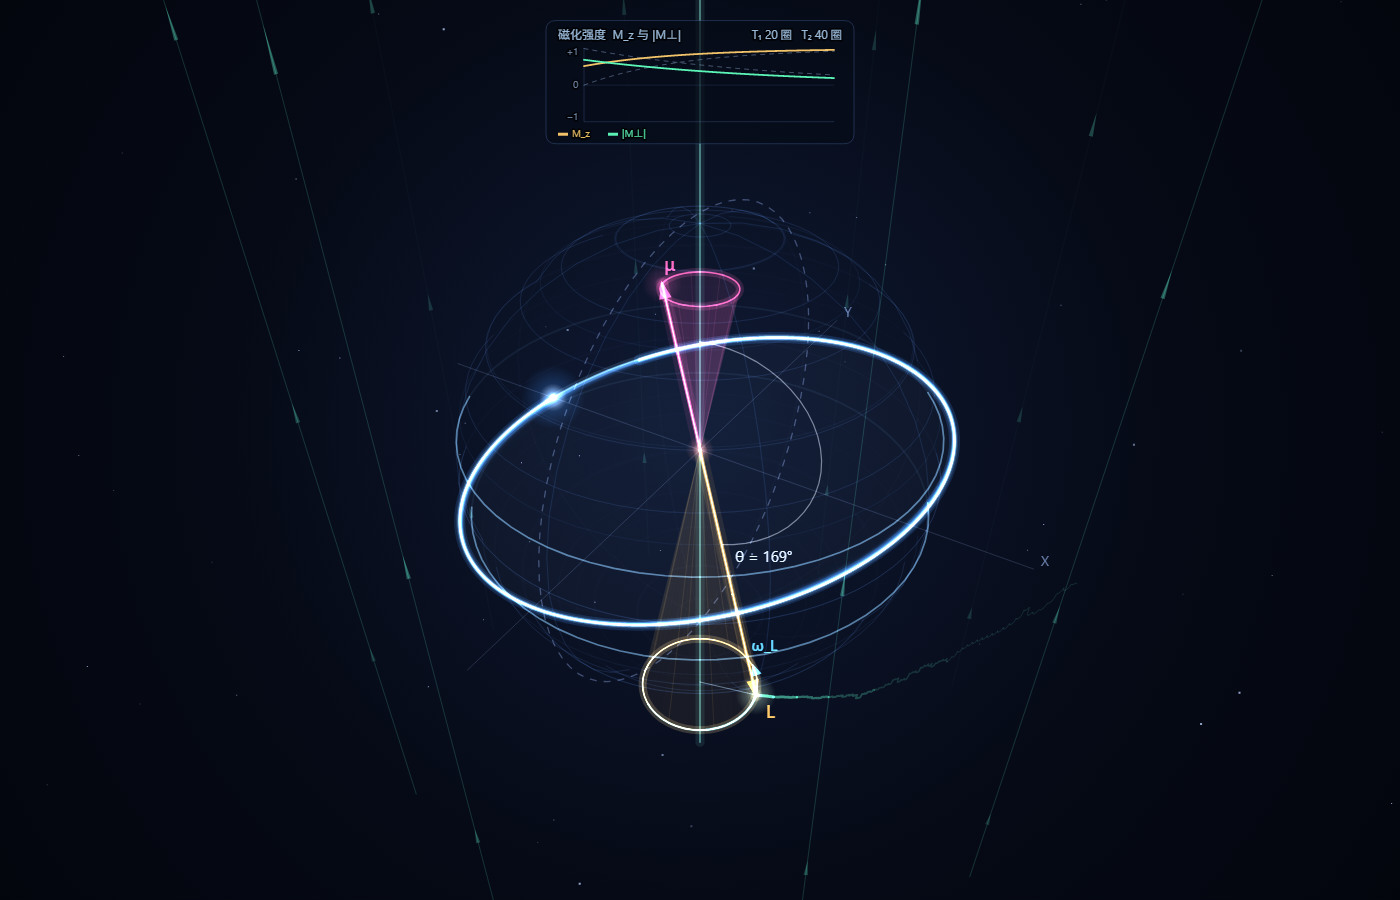
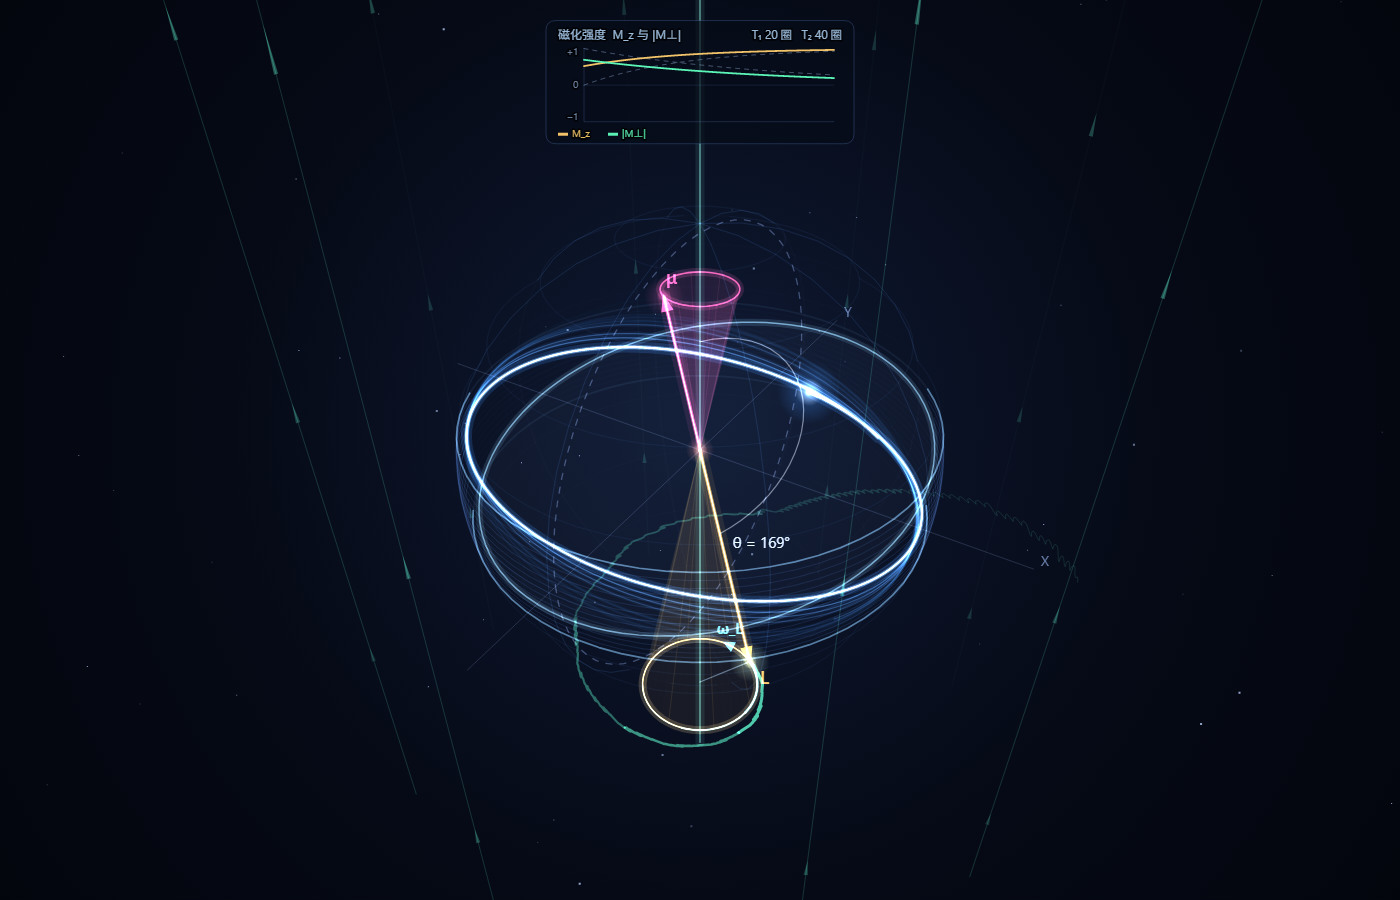
Stop the plane-constraint drive from cancelling the Larmor precession
Reported: "why do the L / mu axes only jitter slightly instead of sweeping a
circle along the trajectory?" Measured with a probe (omega_L/omega_0 = 0.02,
2.2 orbits/s, theoretical precession 15.8 deg/s):

  config                azimuth rate    tilt
  plain (no relax/quant)    15.8 deg/s  correct
  quantisation only          1.5 deg/s  WRONG - precession almost frozen
  relax + quantisation       4.3 deg/s  WRONG

The plane-constraint drive was fighting the physics. The exact integration
carries a small O(B) nutation (the tilt oscillates within ~0.6 deg); the drive
"suppressed" it every frame, and those rotations about r_hat carry a systematic
azimuthal component which, accumulated, ate most of the precession. Visually
that is exactly "the arrow barely turns, it just jitters".

Fixes:
- Deadband of 0.025 rad in relaxTilt: ignore deviations smaller than that, so
  the natural nutation is left alone. Quantum jumps are ~30 deg, far above the
  deadband, so snapping stays crisp.
- When the target tilt is unreachable at the current orbital phase (the
  achievable range depends on where the electron is), do nothing and wait for a
  favourable phase instead of pushing to the extreme - pushing created a limit
  cycle that also fought the precession.
- The quantum number is now latched when relaxation is off, instead of being
  recomputed from the driven geometry each frame; that removed a feedback loop
  ("drive -> tilt changes -> m changes -> target changes -> drive") which made
[…]

Changed region(s): [[0.3071, 0.28, 0.7064, 0.8089], [0.4607, 0.8089, 0.5221, 0.84], [0.5836, 0.5289, 0.6143, 0.56]]

diff --git a/larmor-precession/app.js b/larmor-precession/app.js
@@ -217,15 +217,31 @@ function createApp(canvas, doc, win) {
     var C = -(V.cross(rh, nh))[2];
     var R = Math.hypot(A, C);
     if (R < 1e-6) return;
+    /* 死区: 不要理会微小起伏。
+     * 精确积分本身就带一个 O(B) 的章动(倾角在 ~0.6° 内起伏)。若每帧都去
+     * 镇压它, 这些绕 r̂ 的修正会带有系统性方位角分量, 累积起来足以把拉莫尔
+     * 进动抵消掉(实测方位角从 15.8°/s 掉到 1.5°/s)。所以只在偏差超过死区时才动。 */
+    var planeNow = Math.acos(clamp(Math.abs(A), 0, 1));
+    if (Math.abs(planeNow - S.betaDisp) < 0.025) return;
     var want = Math.cos(clamp(S.betaDisp, 0, Math.PI / 2));   /* 目标 |cos psi| */
-    var d0 = Math.atan2(C, A), delta, s;
-    if (R <= want) {
-      delta = d0;                       /* 该时刻够不到目标倾角, 先转到能达到的最小倾角 */
-    } else {
+    var d0 = Math.atan2(C, A), delta = 0, s, cand, i, best;
+    var cur = Math.abs(A);                        /* 当前 |cos psi| */
+    if (want <= R) {
+      /* 目标可达: 直接解出所需角度, 在 4 个解里取 |δ| 最小的那个。
+       * 已经到位时 δ=0 本身就是解之一, 所以不会再被硬推 -> 不抖。 */
       s = Math.acos(clamp(want / R, -1, 1));
-      var a1 = ((d0 - s + Math.PI) % TAU + TAU) % TAU - Math.PI;
-      var a2 = ((d0 + s + Math.PI) % TAU + TAU) % TAU - Math.PI;
-      delta = Math.abs(a1) < Math.abs(a2) ? a1 : a2;
+      best = 1e9;
+      for (i = 0; i < 4; i++) {
+        cand = d0 + (i === 0 ? s : i === 1 ? -s : i === 2 ? (Math.PI - s) : -(Math.PI - s));
+        cand = ((cand + Math.PI) % TAU + TAU) % TAU - Math.PI;
+        if (Math.abs(cand) < best) { best = Math.abs(cand); delta = cand; }
+      }
+    } else {
+      /* 目标当前够不到: 该相位下最多只能到 acos(R)。
+       * 正确做法是"等" —— 同一个目标在轨道另一段相位(R 更大时)就能达到。
+       * 若在这里硬推到极端, 就会每帧跟进动对着干, 形成极限环,
+       * 表现为"箭头几乎不转、只是在抖"。 */
+      delta = 0;
     }
     delta = clamp(delta, -0.03, 0.03);
     if (Math.abs(delta) < 1e-6) return;
@@ -260,18 +276,25 @@ function createApp(canvas, doc, win) {
     if (S.hist.length > histCap) S.hist.splice(0, S.hist.length - histCap);
     if (S.recent.length > CFG.recentMax) S.recent.splice(0, S.recent.length - CFG.recentMax);
 
-    /* ---- 弛豫 / 空间量子化 对"轨道面取向"的约束 ----
-     * 注意: 轨道面是"无向"的 —— 面倾角 p 与 180°-p 是同一个面。
-     * 但量子数 m 是"有向"的: 对 l=2, 允许的有向 beta 是
-     *   35.3°(m=-2) 65.9°(-1) 90°(0) 114.1°(+1) 144.7°(+2)
-     * 而面倾角只有 35.3/65.9/90 三个值, 35.3° 同时对应 m=±2。
-     * 所以 m 必须由有向的布洛赫倾角 S.betaCont 决定, 绝不能由驱动后的
-     * 几何倾角决定 —— 否则高亮会在 +m 和 -m 之间乱跳。 */
+    /* ---- 弛豫 / 空间量子化 对"轨道面取向"的约束 ---- */
     if (S.relax && S.Tau > 0) blochStep(dtSim);
     else S.betaCont = tiltFromEq(S.L);
 
-    var pNow = Math.min(S.betaCont, Math.PI - S.betaCont);
-    var pTgt = S.quant ? nearestAllowed(pNow, S.lq) : pNow;
+    var pNow = Math.min(S.betaCont, Math.PI - S.betaCont);   /* 无向的面倾角 */
+    var pTgt, br;
+
+    if (S.quant) {
+      /* 量子数 m 只在弛豫时演化, 而且只由"与驱动器无关"的布洛赫解决定。
+       * 不弛豫时把它锁住 —— 若用被驱动过的几何倾角反推 m, 会形成
+       * "驱动→改变倾角→改变 m→改变目标→再驱动" 的正反馈, 状态会自己往上爬。 */
+      if (S.relax || S.mNow < 0) S.mNow = mForBeta(S.betaCont, S.lq);
+      var pb = allowedBetas(S.lq)[clamp(S.mNow + S.lq, 0, 2 * S.lq)];
+      pTgt = Math.min(pb, Math.PI - pb);
+      br = (pb > Math.PI / 2) ? 1 : -1;
+    } else {
+      pTgt = pNow;
+      br = (S.betaCont > Math.PI / 2) ? 1 : -1;
+    }
 
     if (S.relax && S.Tau > 0) {
       S.betaDisp += (pTgt - S.betaDisp) * clamp(dtWall / 0.10, 0, 1);  /* 量子跃迁 0.1s 过渡 */
@@ -282,10 +305,7 @@ function createApp(canvas, doc, win) {
     } else {
       S.betaDisp = pNow;              /* 都不开: 保持精确积分, 不动轨道面 */
     }
-    S.mNow = S.quant ? mForBeta(S.betaCont, S.lq) : -1;
-    /* 有向分支: beta>90° 表示 L 在 +Z 一侧。用来把"无向的面倾角"还原成有向方向,
-     * 这样量子化 snap 之后 m 与画出来的锥仍然一一对应。 */
-    S.branch = (S.betaCont > Math.PI / 2) ? 1 : -1;
+    S.branch = br;
 
     /* 观测量 */
     var L = PH.angularMomentum(S);

diff --git a/larmor-precession/test-headless.js b/larmor-precession/test-headless.js
@@ -256,8 +256,10 @@ if (seq[seq.length - 1] !== -lq) errors.push('终点不是基态: ' + seq[seq.le
 const allSeen = seq.slice().sort((a, b) => b - a).join(',');
 if (allSeen !== seq.join(',') || seq.length !== 2 * lq + 1)
   console.log('  (注: 阶梯出现 ' + seq.length + ' 级, 共 2l+1 = ' + (2 * lq + 1) + ' 级)');
-const snapped = allowed.some(a => Math.abs(parseFloat(a) - tiltDeg()) < 1.0) ||
-                allowed.some(a => Math.abs(parseFloat(a) - (180 - tiltDeg())) < 1.0);
+/* 容差 2°: 驱动器故意留了 0.025 rad 死区, 以免每帧去镇压精确积分自带的
+ * O(B) 章动(那会把拉莫尔进动抵消掉)。画出来的锥仍然精确落在允许值上。 */
+const snapped = allowed.some(a => Math.abs(parseFloat(a) - tiltDeg()) < 2.0) ||
+                allowed.some(a => Math.abs(parseFloat(a) - (180 - tiltDeg())) < 2.0);
 if (!snapped) errors.push('开启量子化后轨道面没有落在允许值上: ' + tiltDeg().toFixed(2) + '°');
 else console.log('  → 轨道面已落在允许倾角上 ✓ (β = ' + tiltDeg().toFixed(1) + '°, 对应 m=' + app.state.mNow + ')');
 

diff --git a/larmor-precession/README.md b/larmor-precession/README.md
@@ -213,6 +213,20 @@ l = 2 时是 35.3° / 65.9° / 90° / 114.1° / 144.7° 五根，画成虚线圆
 > 所以 l=2 的**面倾角**只有 35.3° / 65.9° / 90° 三个值，其中 35.3° **同时对应 m=−2 和 m=+2**。
 > 因此量子数 m 必须由**有向**的布洛赫倾角决定，绝不能由驱动后的几何倾角决定——
 > 否则高亮会在 +m 和 −m 之间来回乱跳（先 +2 掉到 −2、再回 0、再掉 −2）。
+>
+> 第二个坑更隐蔽：**约束轨道面的驱动器一度把拉莫尔进动抵消掉了**。精确积分本身就带一个
+> O(B) 章动（倾角在 ~0.6° 内起伏），驱动器每帧都去"镇压"它，而这些绕 r̂ 的修正带有
+> **系统性的方位角分量**，累积起来足以吃掉进动。实测方位角速率从 15.8°/s 掉到 **1.5°/s**——
+> 看上去就是"箭头几乎不转、只是在抖"。修法是给驱动器加 **0.025 rad 死区**，只在偏差超过
+> 死区时才动（量子跃迁是 30° 量级，远大于死区，所以 snap 照旧干脆）。
+>
+> 修好后实测（ω_L/ω₀ = 0.02，2.2 圈/秒，理论进动一圈 22.7 s ≈ 15.8°/s）：
+
+| 配置 | L 方位角速率 | 倾角行为 |
+|---|---|---|
+| 默认（无弛豫无量子化） | **15.8°/s** ✓ | 29.5°，含 0.57° 自然章动 |
+| 只开空间量子化 | **14.7°/s** ✓ | 锁定在 35.26°（m=+2） |
+| 弛豫 + 量子化 | **13.3°/s** ✓ | 35.3° → 65.9° → 90°，m 单调下梯 |
 
 两个纯量子效应在画面里直接可见：
 
